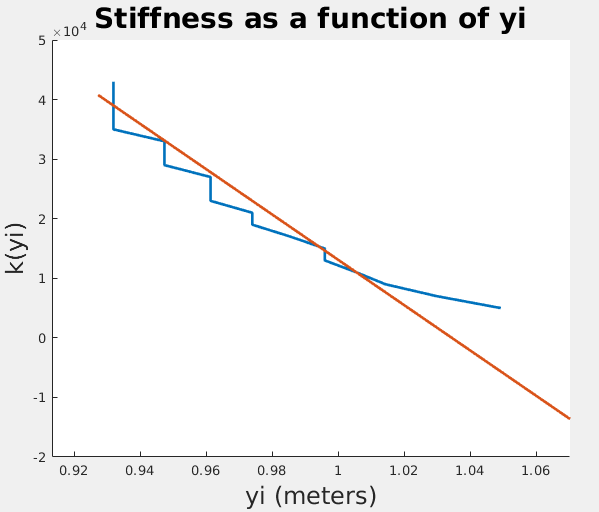
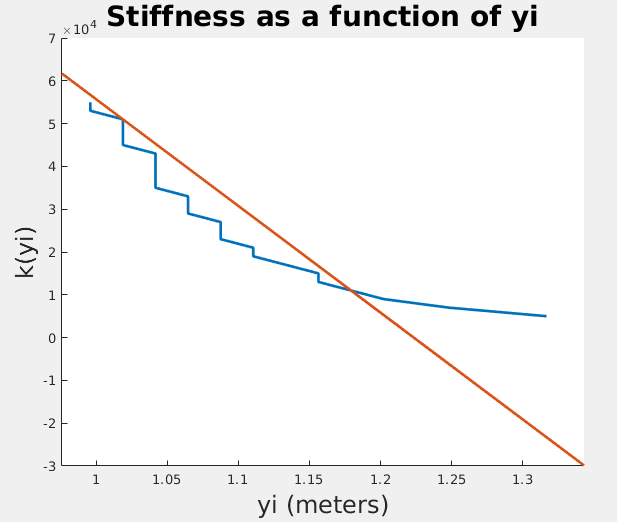
Completed poincare plot, error in part 2

diff --git a/problem_3_script.m b/problem_3_script.m
@@ -1,0 +1,68 @@
+% Model Parameters
+g = 9.81;
+k = 20000;
+m = 80;
+l0 = 1;
+dx0 = 5;
+y0 = 1;
+Esys = m*g*l0 + m/2*dx0^2;
+a0 = 68 * pi/180;
+
+% load('p3vars.mat'); % backup
+y_slope = -2.4939*10^5;
+y_intercept = 3.0509*10^5;
+
+% fixed initial conditions
+x0=0;
+dy0=0;
+
+% cretae Poincare map
+
+ny0 = 51;
+
+y0_min = l0*sin(a0) + eps;
+y0_max = 1.3;
+y0Vec = linspace( y0_min, y0_max, ny0);
+
+y1Vec = NaN*y0Vec;
+
+ground = 0.00001;
+
+
+for yIdx = 1:ny0
+    
+    y0 = y0Vec(yIdx);
+    k = y_slope*y0 + y_intercept;
+    dx0 = sqrt(2/m*(Esys-m*g*y0)); % unchanged in this model
+    
+    sim('problem_1.slx')
+    
+    if ~isempty(y1)
+        if dx>=0 
+            if y1 > 0.5
+                y1Vec(yIdx)=y1; 
+            end
+        end
+        
+    end
+    
+end %endfor
+
+y1Vec_fixed = NaN*y0Vec;
+k = 20000;
+for yIdx = 1:ny0
+    y0 = y0Vec(yIdx);
+    dx0 = sqrt(2/m*(Esys-m*g*y0));
+    
+    sim('problem_1.slx')
+    
+    if ~isempty(y1)
+        if dx>=0 
+            if y1 > 0.5
+                y1Vec_fixed(yIdx)=y1; 
+            end
+        end
+        
+    end
+    
+end

diff --git a/plot_minimization.m b/plot_minimization.m
@@ -5,16 +5,16 @@ hold on;
 
 load('p2vars.mat')
 
-last_valid = 20;
+last_valid = 26;
 
-plot(y1Vec(idx_rows(1:last_valid)), kVec(1:last_valid),'LineWidth',2);
+plot(y0Vec(idx_rows(1:last_valid)), kVec(1:last_valid),'LineWidth',2);
 xlabel('yi (meters)','fontsize',18);
 ylabel('k(yi)','fontsize',18);
 title('Stiffness as a function of yi','fontsize',21);
-xlim([0.98*y1Vec(idx_rows(last_valid)), y1Vec(idx_rows(1))*1.02]);
+xlim([0.98*y0Vec(idx_rows(last_valid)), y0Vec(idx_rows(1))*1.02]);
 
-p1 = [y1Vec(idx_rows(4)), kVec(4)];
-p2 = [y1Vec(idx_rows(last_valid-2)), kVec(last_valid-2)];
+p1 = [y0Vec(idx_rows(4)), kVec(4)];
+p2 = [y0Vec(idx_rows(last_valid-2)), kVec(last_valid-2)];
 
 y_slope = (p2(2) - p1(2)) / (p2(1) - p1(1));
 y_intercept = p2(2) - y_slope*p2(1);
@@ -22,6 +22,6 @@ y_intercept = p2(2) - y_slope*p2(1);
 line_ = y_slope*y0Vec;
 line_ = line_ + y_intercept;
 
-
+save('p3vars.mat','y_slope','y_intercept')
 
 plot(y0Vec, line_,'LineWidth',2);

diff --git a/poincare_plot.m b/poincare_plot.m
@@ -1,0 +1,15 @@
+% For plotting poincare maps
+
+
+clf;
+equals_line = linspace(0.96,1.4,51);
+hold on;
+plot_range = find(~isnan(y1Vec) == 1);
+plot_range_fixed = find(~isnan(y1Vec_fixed) == 1);
+plot(equals_line,equals_line);
+plot(y0Vec(plot_range),y1Vec(plot_range), 'LineWidth',2,'Color','r');
+plot(y0Vec(plot_range_fixed), y1Vec_fixed(plot_range_fixed),'LineWidth',2,'Color','b');
+xlabel("y0 (m)");
+ylabel("y1 (m)");
+title("Poincare map");
+% title("Poincare map of bipedal walking model with aperture: " + aperture*180/pi + " and system energy: " + Esys);
